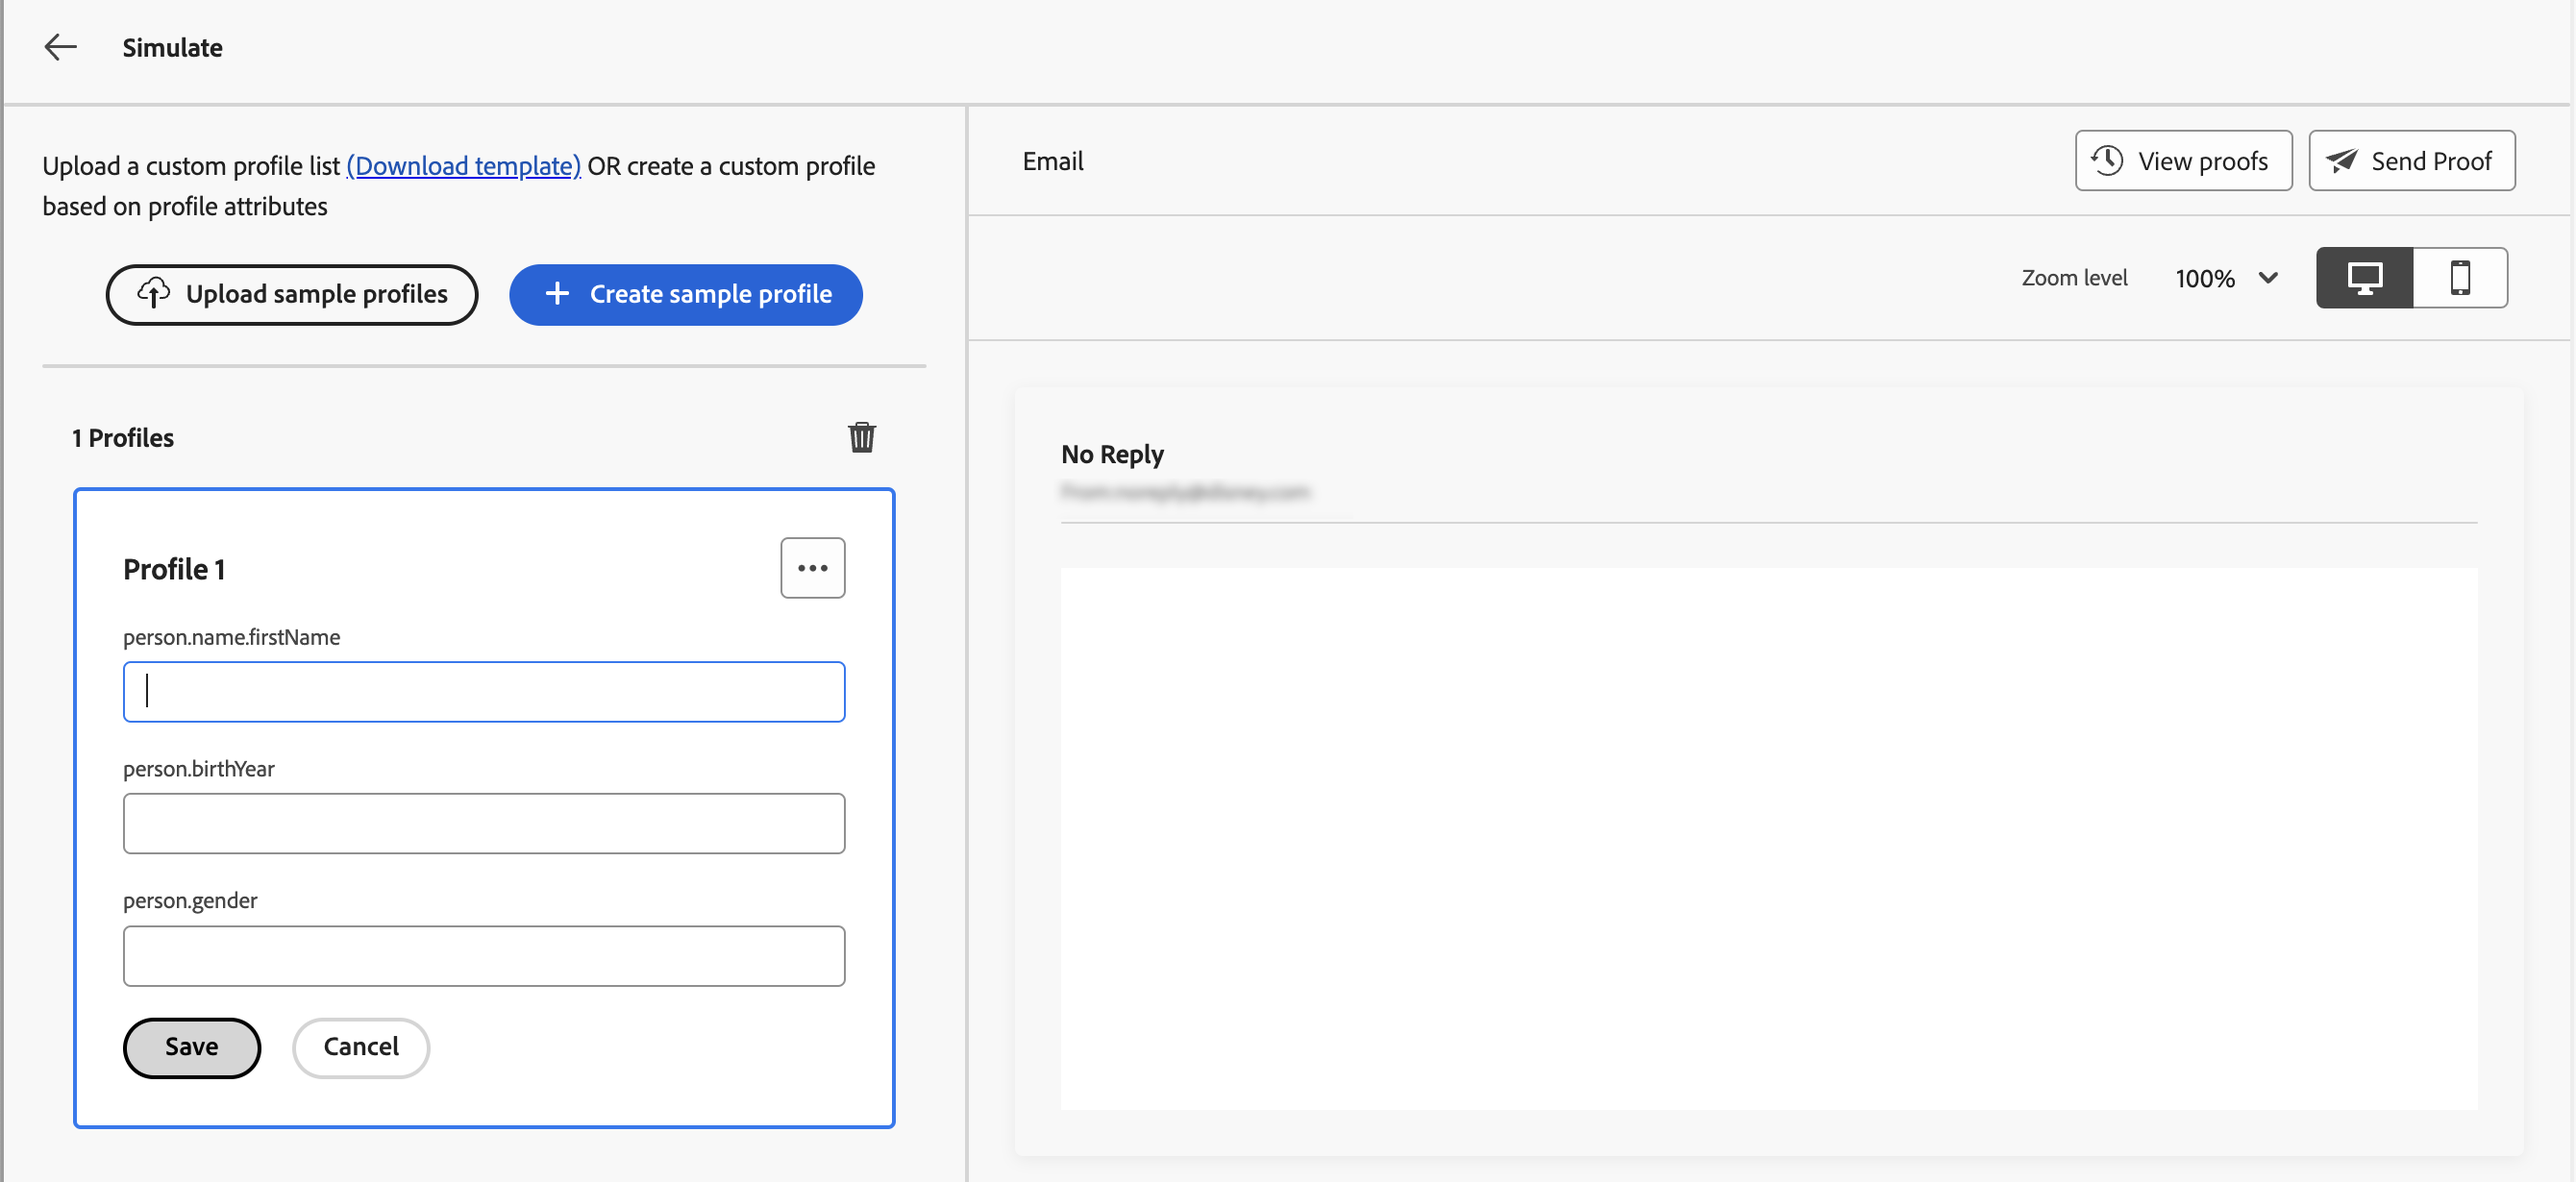
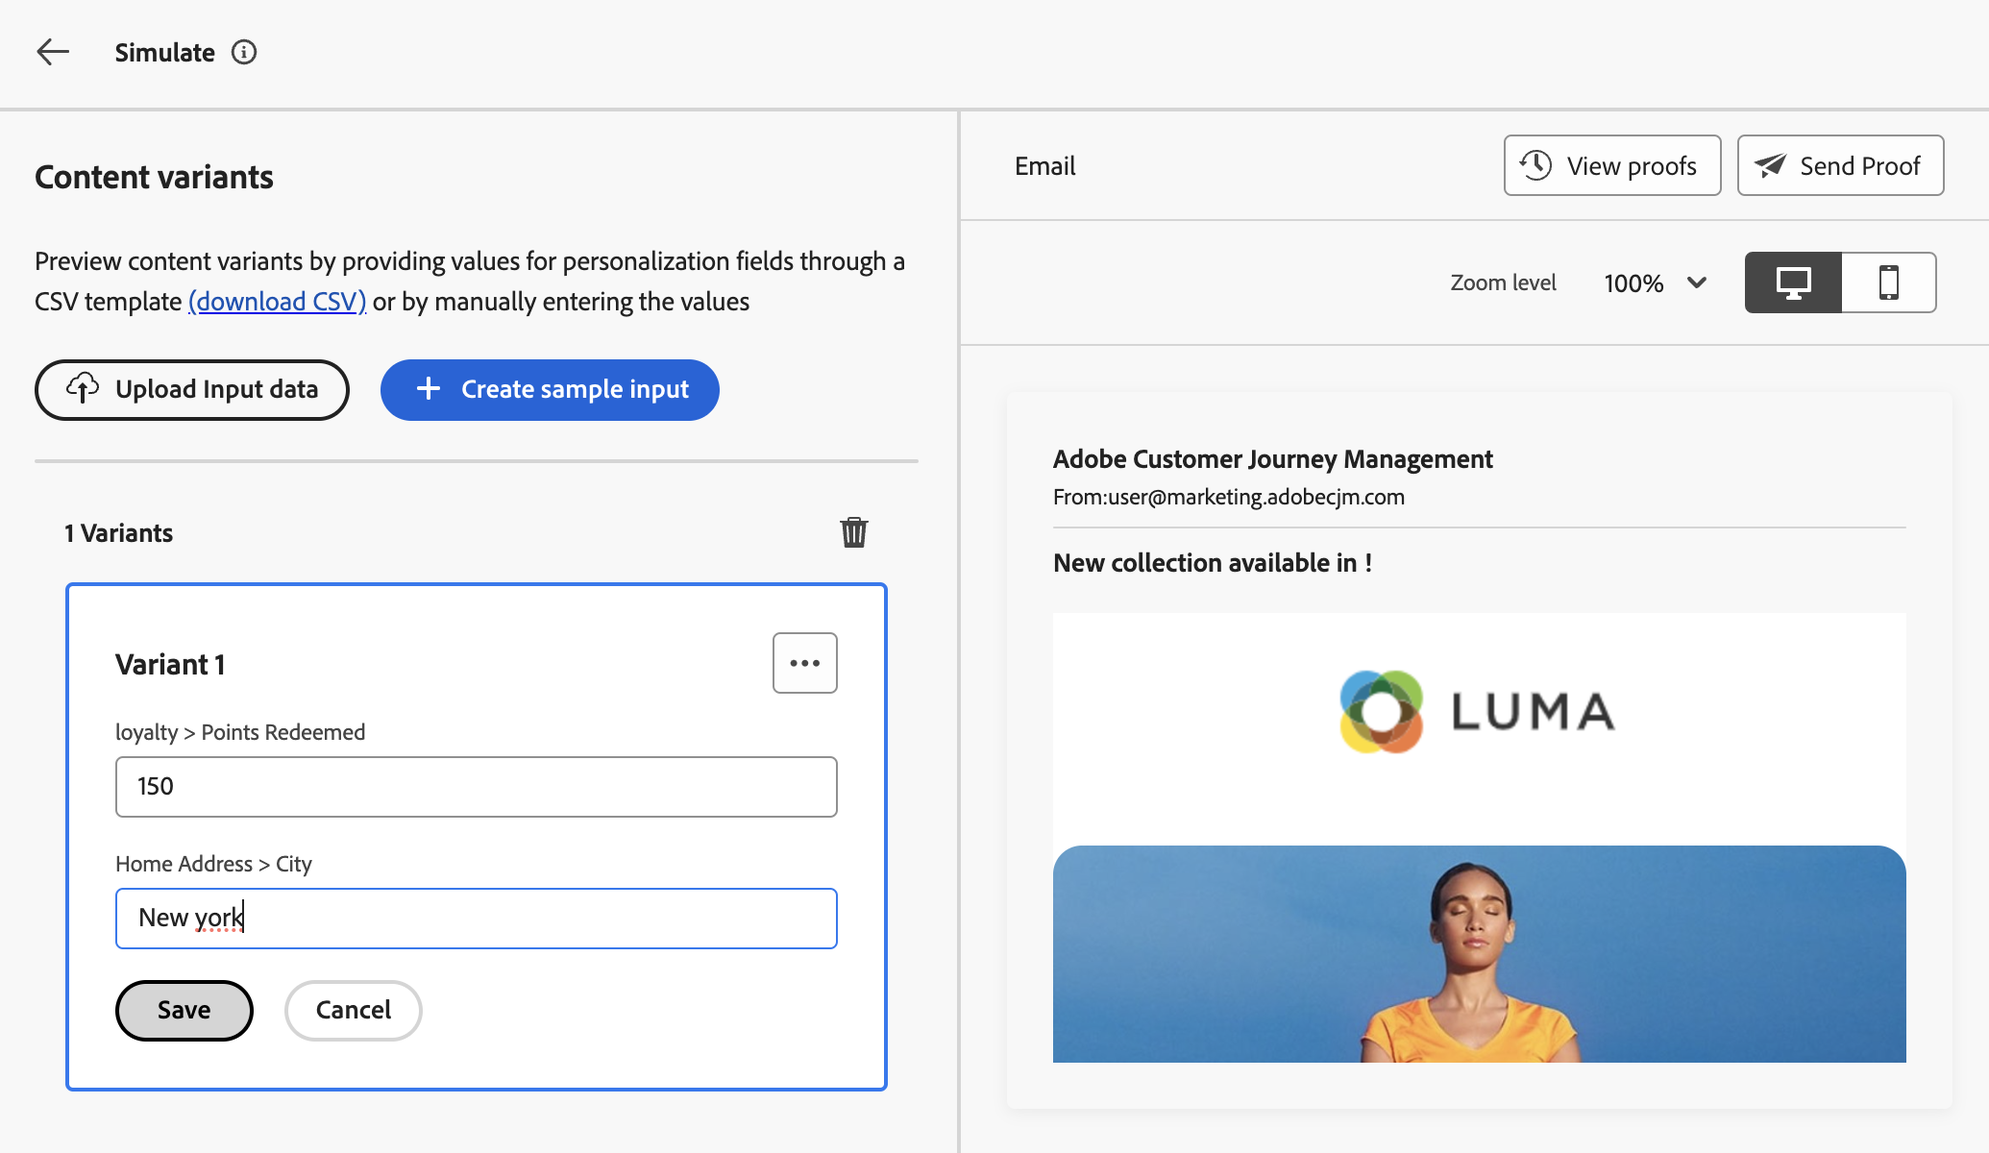
update next-gen proofing (hidden)

diff --git a/help/using/test-approve/simulate-sample-input.md b/help/using/test-approve/simulate-sample-input.md
@@ -1,0 +1,95 @@
+---
+solution: Journey Optimizer
+product: journey optimizer
+title: Test your content using sample input data
+description: Learn how to preview email content and send proofs using sample input.
+feature: Overview, Get Started
+topic: Content Management
+role: User
+level: Intermediate
+badge: label="Beta"
+hide: yes
+hidefromtoc: yes
+---
+
+# Test your content using sample input data {#custom-profiles}
+
+>[!CONTEXTUALHELP]
+>id="ajo_simulate_sample_profiles"
+>title="Simulate using sample input"
+>abstract="In this screen, you can test different variants of your email content by providing values for personalization fields through a CSV template (download CSV) or by manually entering the values.
+
+>[!AVAILABILITY]
+>
+>This features is currently available as a beta to selected users only.
+
+Journey optimizer allows you to test different variants of your email content by previewing it and sending proofs using sample input data uploaded from a CSV file or added manually. All the profiles attributes used in your content for personalization are automatically detected by the system and can be used for your tests to create multiple variants.
+
+To access this experience, click the **[!UICONTROL Simulate content]** button and choose **[!UICONTROL Simulate with CSV(Beta)]**.
+
+![](assets/simulate-sample.png)
+
+The main steps to test your content are as follows:
+
+1. Add up to 30 variants with sample input data, either by uploading a CSV file, or by adding data manually. [Learn how to add variants](#profiles)
+1. Check the preview of your content using the different variants. [Learn how to preview your content](#preview)
+1. Send up to 10 proofs to email addresses using the different variants. [Learn how to send proofs](#proofs)
+
+
+## Guardrails & limitations {#limitations}
+
+Before starting testing your content using sample inpuyt data, consider the following guardrails and prerequisites.
+
+* As of now, testing using sample input data is only available for the email channel.
+* The following features are not available in the current experience: Inbox rendering, spam reports, multilingual content and content experiment. To use these features, select the **[!UICONTROL Simulate content]** button from your content to access the previous user interface.
+* Only profile attributes are currently supported. If contextual attributes are used in your content for personalization, you won't be able to test your content using these attributes.
+* Only the following data types are supported when entering data for your variants : number (integer and decimal), string, boolean and date type. Any other data type will show an error.
+
+
+not from acrite
+
+## Add variants {#profiles}
+
+You can add up to 30 variants to test your content, either using a CSV file, or manually:
+
+* To upload sample input data from a CSV file, click the **[!UICONTROL download CSV]** link to retrieve a CSV file template. This templates includes a column for each profile attribute used in your content for personalization.
+
+    Fill in the CSV file then click the **[!UICONTROL Upload Input data]** to load it to test your content.
+
+* To add a variant manually, click the **[!UICONTROL Create sample input]** button and fill in the sample input data for the variant. One field displays for each profile attribute used in your content for personalization.
+
+    ![](assets/simulate-custom-add.png)
+
+Once profiles have been selected, one box appears for each variant on the left side of the screen. You can use these profiles to preview your content and send proofs.
+
+>[!NOTE]
+>
+>The added variants only serve as testing purposes for your current content. The are not stored within Adobe Experience Platform, but into your user browser session, meaning that they won't display when logging off, or if working from another device.
+
+## Preview your content variants {#preview}
+
+To preview your content using one of the variants, select the relevant box to update the content preview in the right section with the information entered for this variant.
+
+You can remove a variant at anytime using the ellipsis button in the upper-right corner and selecting **[!UICONTROL Remove]**. To edit information for a variant, click the ellipsis button and select **[!UICONTROL Edit]**.
+
+![](assets/simulate-custom-boxes.png)
+
+## Send proofs {#proofs}
+
+Journey Optimizer allows you to send proofs to email addresses while impersonating one or multiple variants that you have added in the simulation screen. The steps are as follows:
+
+1. Verify that variants have been added to test your content and click the **[!UICONTROL Send Proof]** button.
+
+1. In the **[!UICONTROL Recipients]** field, enter the email address to which you want to send the proof then click **[!UICONTROL Add]**. Repeat the operation to send the proof to additional email addresses. You can add up to 10 proof recipients.
+
+1. In the bottom section of the screen, select the variant that you want to use in the proof. You can select multiple variants, in which case the email will include as many proofs as selected variants.
+
+    For more information on a variant, select the **[!UICONTROL View profile details]** link. This allows you to display the information entered in the previous screen for the different variants.
+
+    ![](assets/simulate-custom-proofs.png)
+
+1. Click the **[!UICONTROL Send Proof]** button to start sending the proof.
+
+1. To track the proof sending, click the **[!UICONTROL View proofs]** button in the simulate content screen.
+
+![](assets/simulate-custom-sent-proofs.png)

diff --git a/help/TOC.md b/help/TOC.md
@@ -171,7 +171,7 @@ solution: Journey Optimizer
 + Test your deliveries {#test}
   + [Conflict management & prioritization](using/test-approve/conflict-prioritization.md)
   + Preview and test content {#preview-test}
-    + [Test your content using custom profiles](using/test-approve/test-custom-profiles.md)
+    + [Test your content using sample input data](using/test-approve/simulate-sample-input.md)
     + [Get started with preview and test](using/content-management/preview-test.md)
     + [Select test profiles](using/content-management/test-profiles.md)
     + [Preview your content](using/content-management/preview.md)
